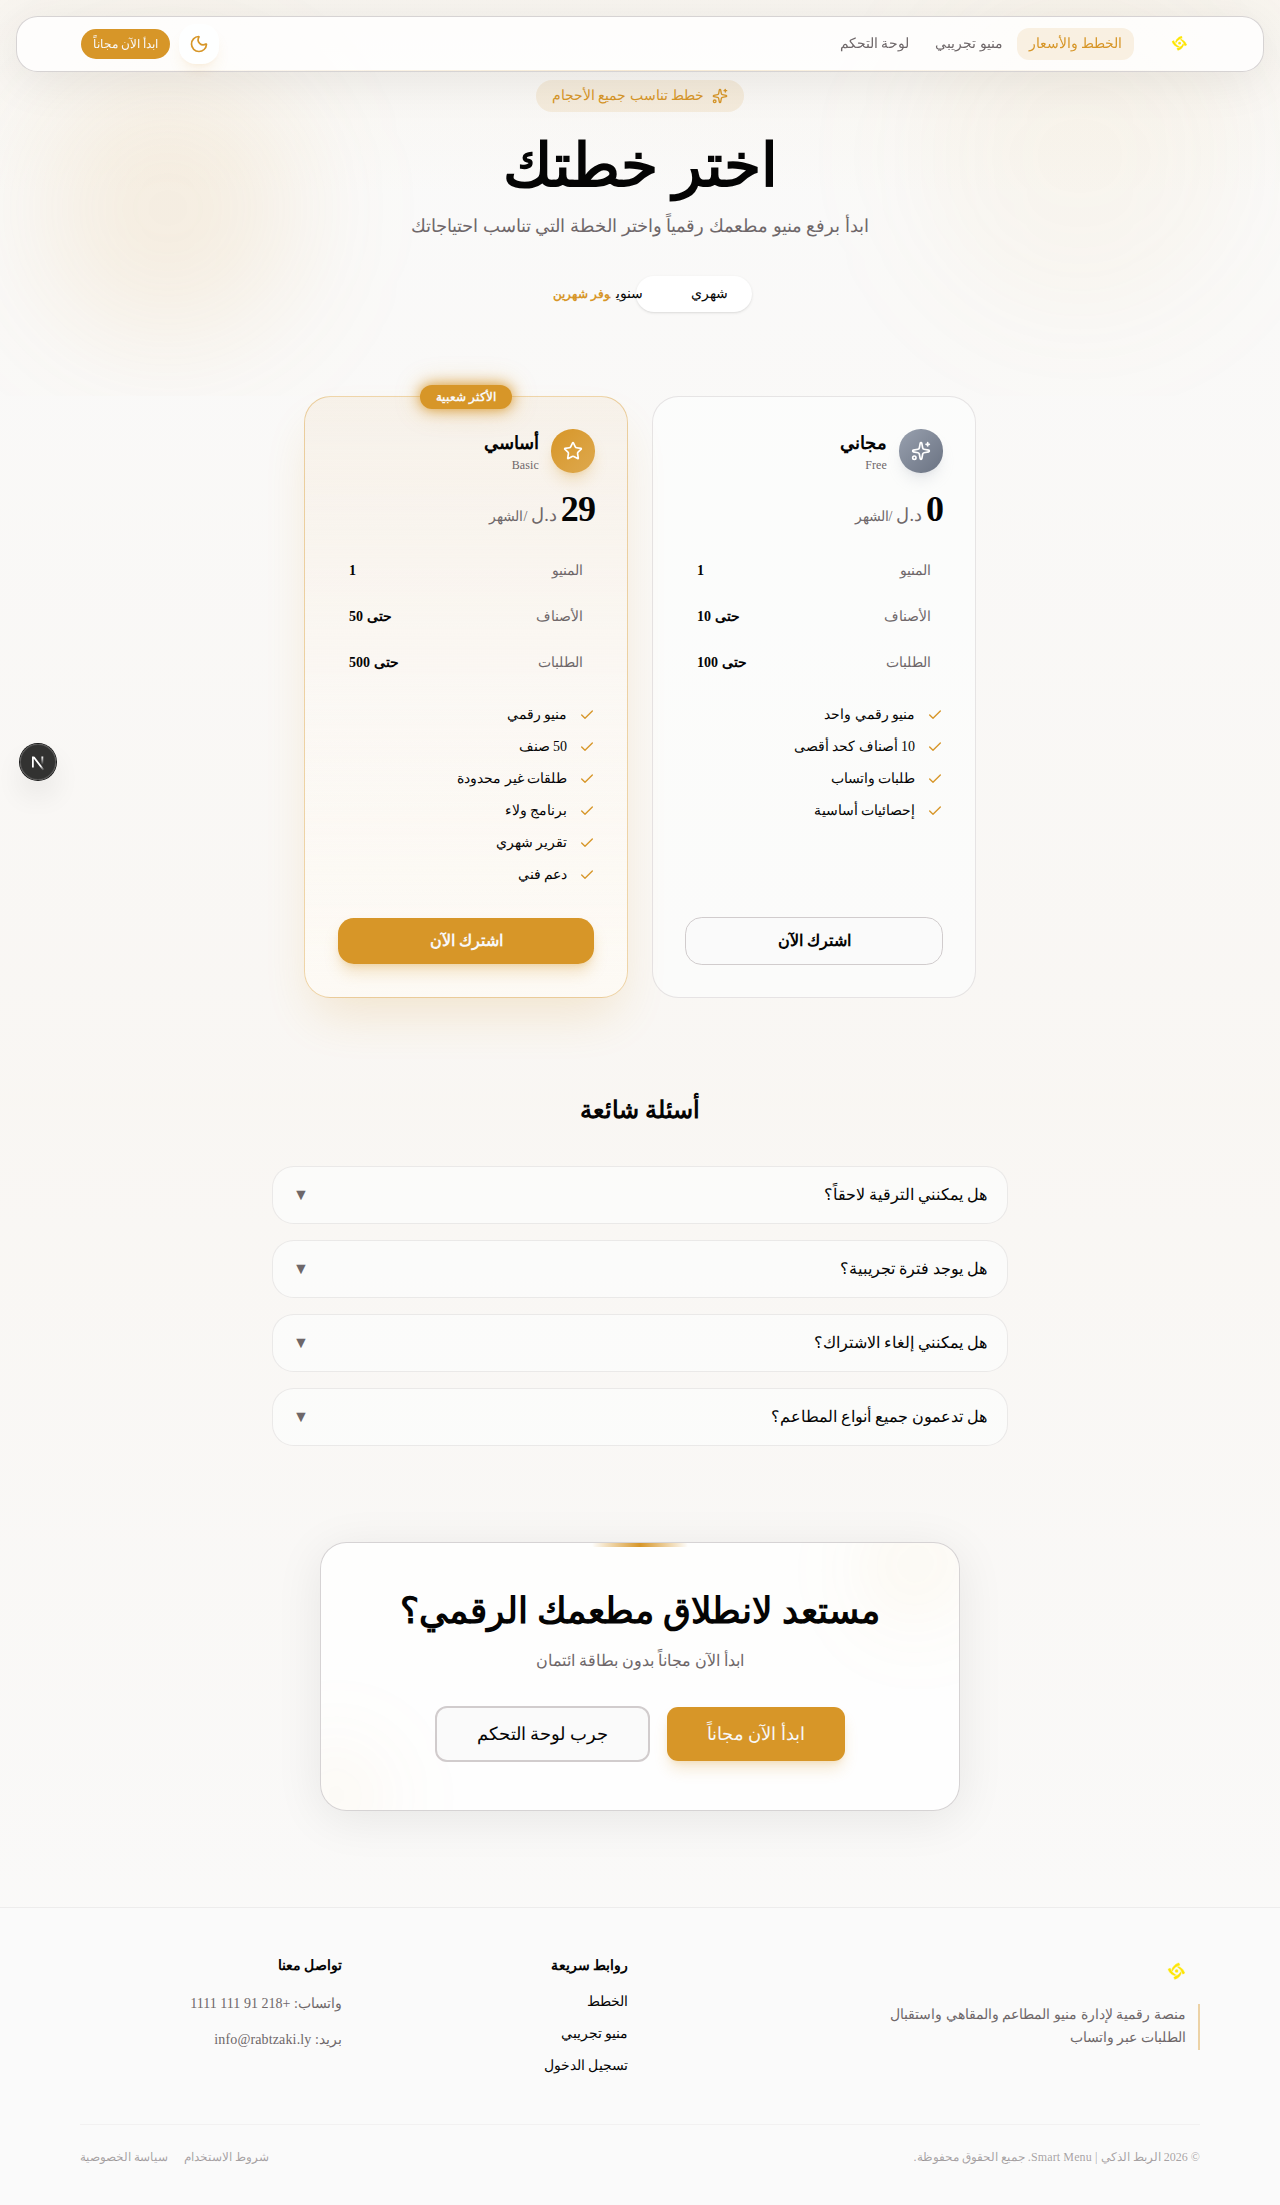
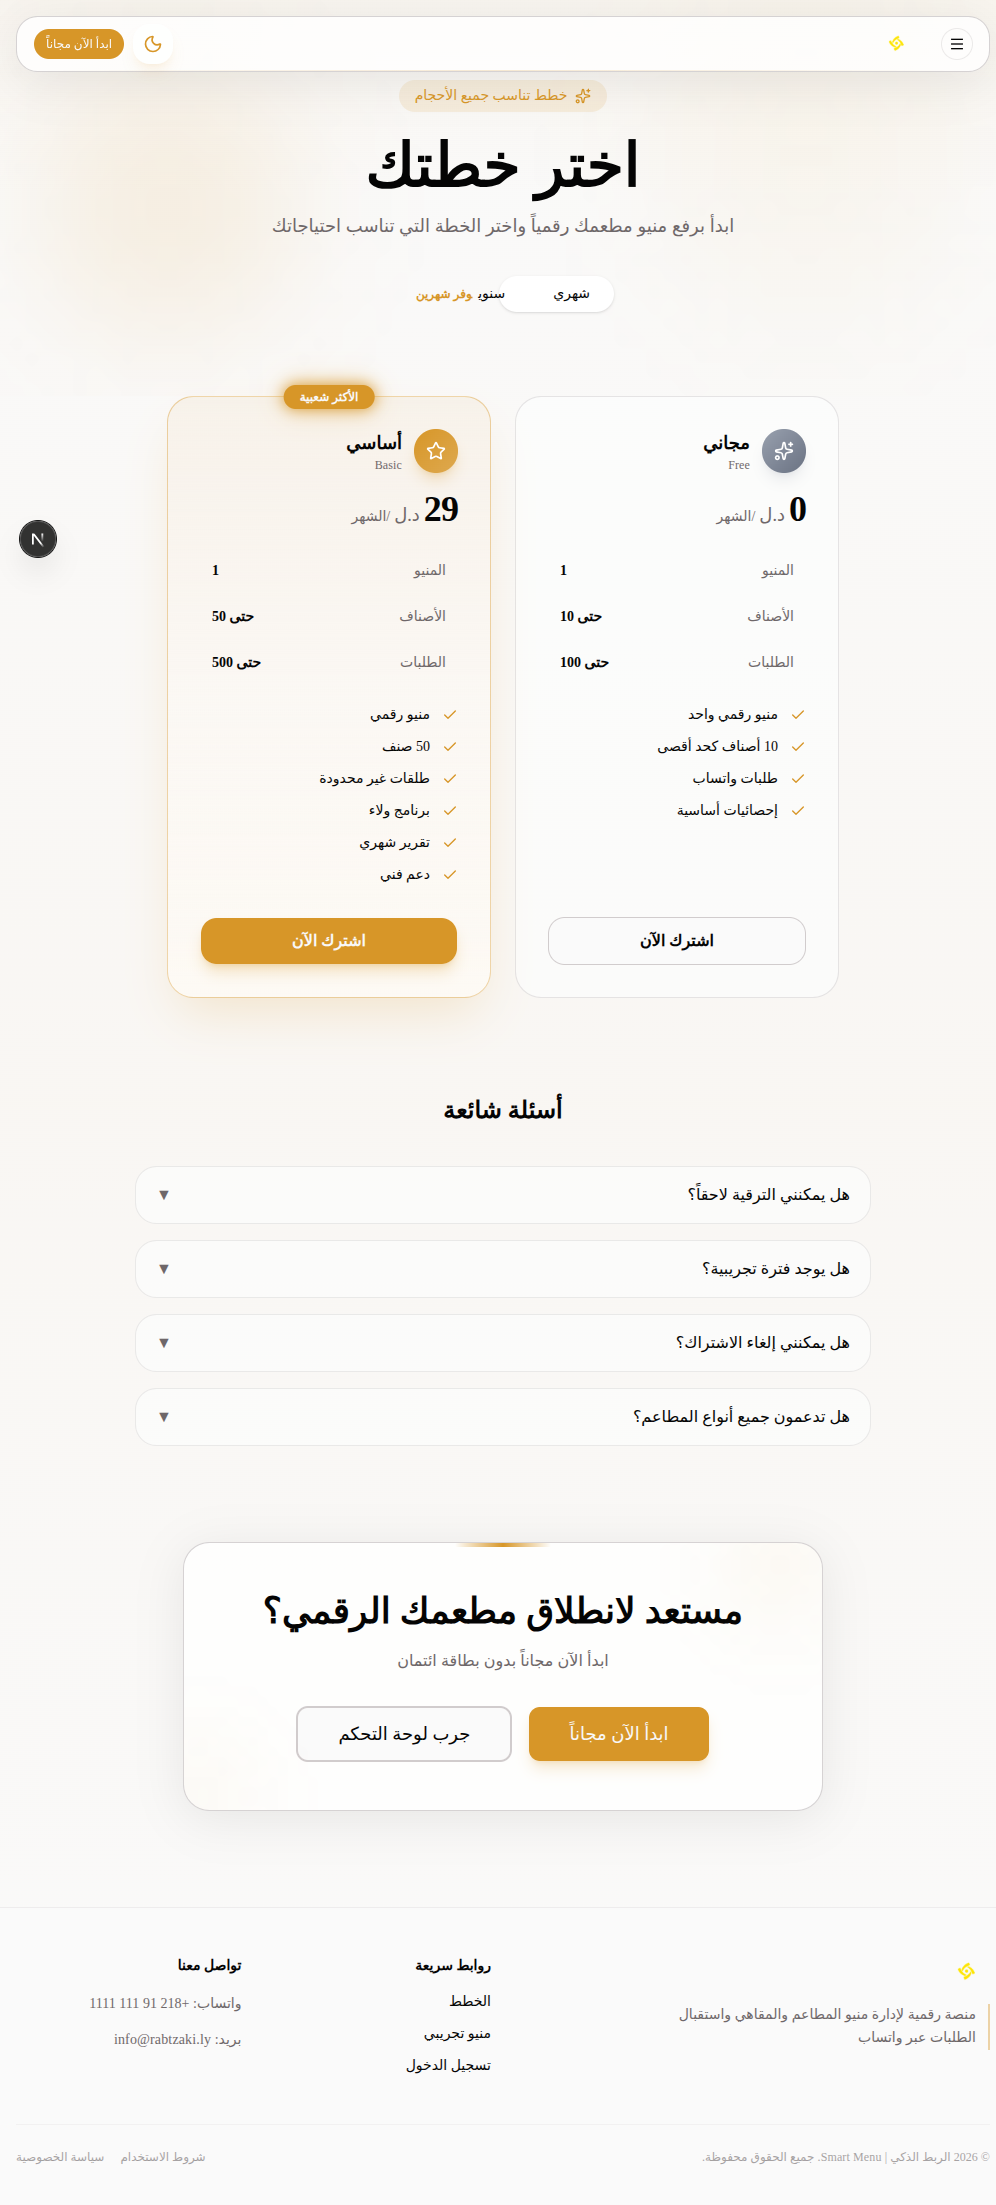
fix: dialog animations, screenshots from audit pass
- Fix dialog.tsx: replace broken  classes
  (require tailwindcss-animate, not installed) with Base UI's
  / — animations work now
- Add audit screenshots for visual verification

diff --git a/src/components/ui/dialog.tsx b/src/components/ui/dialog.tsx
@@ -31,7 +31,8 @@ function DialogOverlay({
     <DialogPrimitive.Backdrop
       data-slot="dialog-overlay"
       className={cn(
-        "fixed inset-0 isolate z-40 bg-black/20 backdrop-blur-sm duration-200 data-open:animate-in data-open:fade-in-0 data-closed:animate-out data-closed:fade-out-0",
+        "fixed inset-0 isolate z-40 bg-black/20 backdrop-blur-sm transition-opacity duration-200",
+        "data-starting-style:opacity-0 data-ending-style:opacity-0",
         className
       )}
       {...props}
@@ -53,7 +54,9 @@ function DialogContent({
       <DialogPrimitive.Popup
         data-slot="dialog-content"
         className={cn(
-          "fixed top-1/2 start-1/2 z-50 grid w-full max-w-[calc(100%-2rem)] max-h-[85dvh] overflow-y-auto overscroll-contain -translate-x-1/2 -translate-y-1/2 gap-4 rounded-xl bg-popover p-4 text-sm text-popover-foreground ring-1 ring-foreground/10 shadow-lg duration-200 outline-none sm:max-w-sm sm:rounded-lg data-open:animate-in data-open:fade-in-0 data-open:zoom-in-95 data-open:slide-in-from-bottom-6 data-closed:animate-out data-closed:fade-out-0 data-closed:zoom-out-95 data-closed:slide-out-to-bottom-6",
+          "fixed top-1/2 start-1/2 z-50 grid w-full max-w-[calc(100%-2rem)] max-h-[85dvh] overflow-y-auto overscroll-contain -translate-x-1/2 -translate-y-1/2 gap-4 rounded-xl bg-popover p-4 text-sm text-popover-foreground ring-1 ring-foreground/10 shadow-lg outline-none sm:max-w-sm sm:rounded-lg",
+          "transition-all duration-200 data-starting-style:opacity-0 data-starting-style:scale-95 data-starting-style:translate-y-4",
+          "data-ending-style:opacity-0 data-ending-style:scale-95 data-ending-style:translate-y-4",
           className
         )}
         {...props}
@@ -71,8 +74,7 @@ function DialogContent({
               />
             }
           >
-            <XIcon
-            />
+            <XIcon />
             <span className="sr-only">إغلاق</span>
           </DialogPrimitive.Close>
         )}